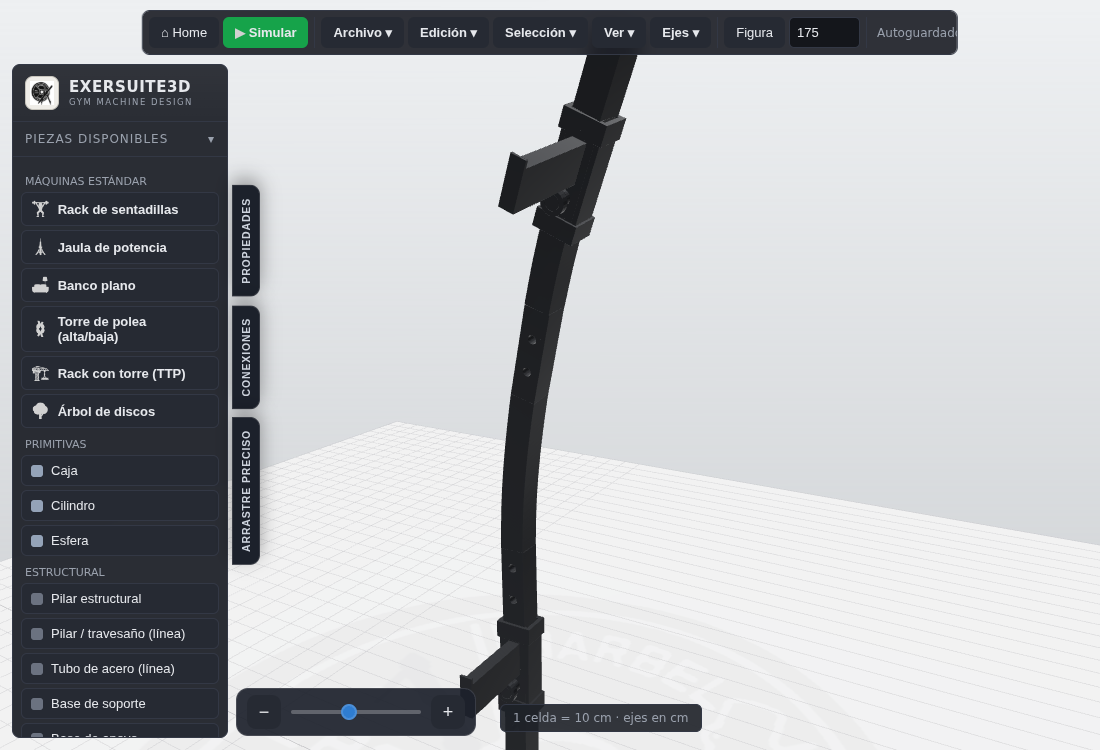
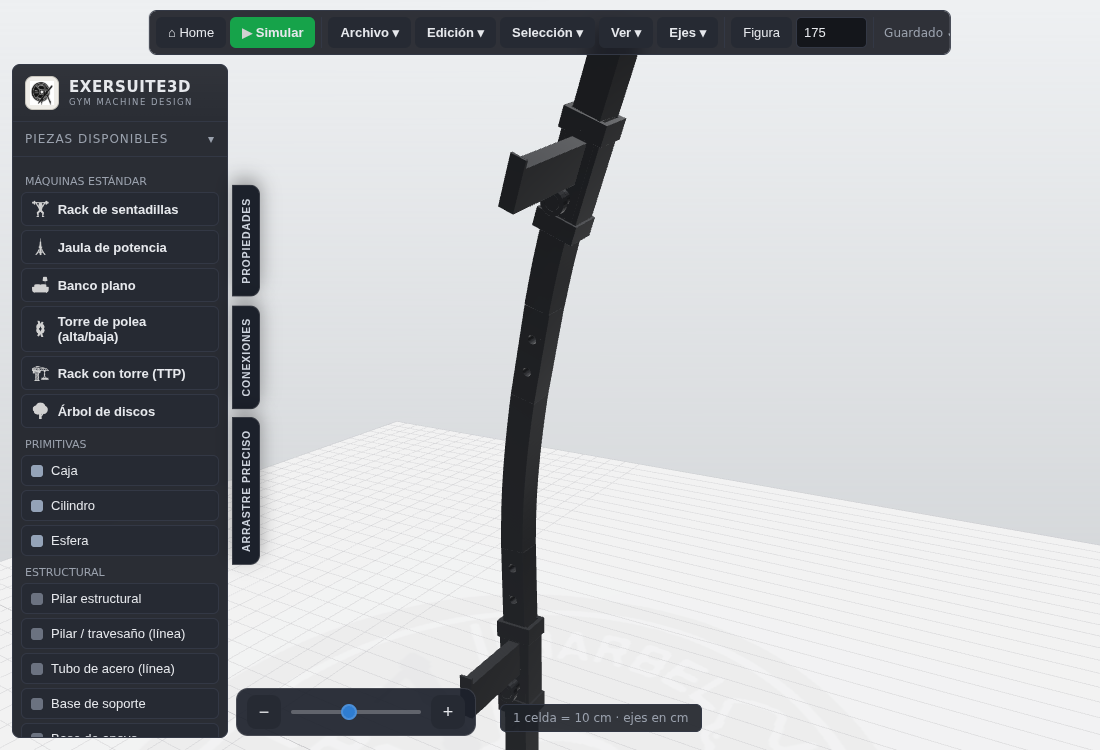
Eje del poste desde la caja LOCAL: calce coherente en postes tendidos
La jota calzada en una viga horizontal quedaba PARADA sobre el centro de
la viga, sin abrazar el perfil ni atravesar un pinhole: el eje del poste
se derivaba del eje más largo de la caja de MUNDO re-rotado por el
cuaternión de la pieza — doble rotación inocua en postes verticales,
pero que en una viga tendida daba un eje vertical falso (la grilla
corría perpendicular a la viga). El eje ahora nace de la dimensión
LOCAL más larga rotada al mundo, en calcePorAgujero y estadoCalce; en
detectarCalzados la caja del anfitrión también pasa a ser la local (la
comparación se hace en su frame). Con esto el accesorio se acuesta
sobre el eje de la viga, su manguito abraza la línea y el paso corre a
lo largo de ella — coherente con las físicas y la interfaz de diseño.

Verificado: jota en viga horizontal alineada 1.0 con el eje, manguito a
0,0 cm de la línea, paso 8 cm axial y 0 vertical; regresión en verde
(suite, calce estado/solape, brazo 2 postes, poste lineal, doblado,
prefab del usuario).

Claude-Session: https://claude.ai/code/session_014fW5t7kk9L1bzdCPk4pmbH

diff --git a/src/core/Editor.ts b/src/core/Editor.ts
@@ -944,7 +944,11 @@ export class Editor {
     };
     for (const o of this.objects.values()) {
       if (o === obj) continue;
-      const s = o.effectiveSize();
+      // Ejes LOCALES de la pieza llevados al mundo: el eje del poste es su
+      // dimensión local más larga ROTADA por su cuaternión. (La caja de
+      // mundo re-rotada duplicaría el giro: una viga tendida horizontal
+      // daría un eje vertical falso y la grilla correría perpendicular.)
+      const s = o.localSize();
       const dims: [number, THREE.Vector3][] = [
         [s.x, new THREE.Vector3(1, 0, 0)],
         [s.y, new THREE.Vector3(0, 1, 0)],
@@ -1237,7 +1241,8 @@ export class Editor {
     const cercanas: GrillaCerca[] = [];
     for (const o of this.objects.values()) {
       if (o === obj) continue;
-      const so = o.effectiveSize();
+      // Ejes LOCALES rotados al mundo (mismas reglas que calcePorAgujero).
+      const so = o.localSize();
       const dims: [number, THREE.Vector3][] = [
         [so.x, new THREE.Vector3(1, 0, 0)],
         [so.y, new THREE.Vector3(0, 1, 0)],

diff --git a/src/physics/PhysicsWorld.ts b/src/physics/PhysicsWorld.ts
@@ -220,7 +220,9 @@ export class PhysicsWorld {
           !!defH?.holeStepCm ||
           (h.obj.params.kind === "beam" && (h.obj.params.holeDiameter ?? 0) > 0.1);
         if (!conGrilla) continue;
-        const hs = h.obj.effectiveSize();
+        // Caja LOCAL del anfitrión (v se expresa en su frame local; la
+        // caja de mundo estaría girada respecto de él).
+        const hs = h.obj.localSize();
         invH.copy(h.obj.mesh.quaternion).invert();
         v.copy(e.obj.mesh.position).sub(h.obj.mesh.position).applyQuaternion(invH);
         const d = Math.max(
